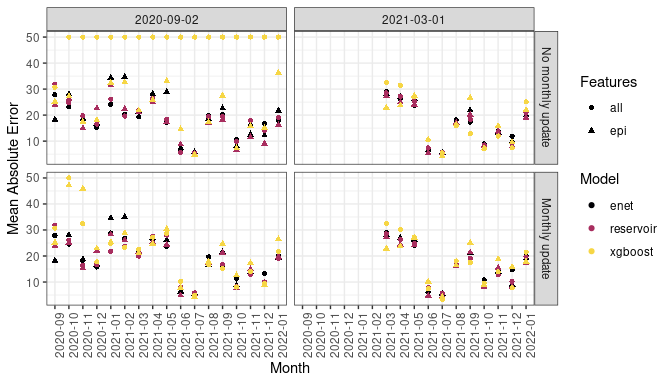
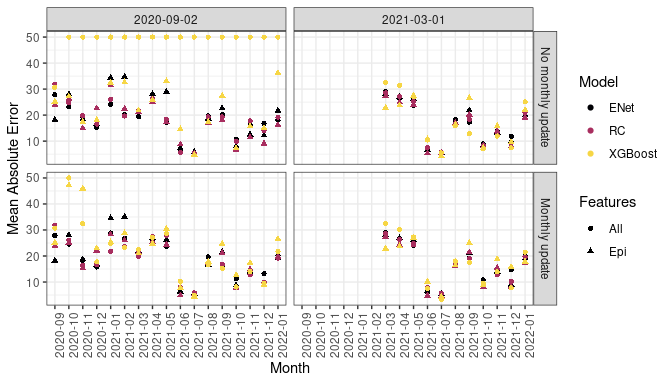
update labels

diff --git a/reporting/experience1.md b/reporting/experience1.md
@@ -552,18 +552,18 @@ Erros greater than 10 are set to 10 for visualisation.
 
 |  |  | starting_date | update | Baseline | MAE (+/- SD) | MRE (+/- SD) | MAEB (+/- SD) | MREB (+/- SD) |
 |----|----|----|----|----|----|----|----|----|
-| enet | all | 2020-09-02 | No monthly update | 21.03(±12.45) | 20.47(±13.86) | 0.2(±0.2) | -0.56(±14.04) | 1.02(±12.93) |
-|  | all | 2020-09-02 | Monthly update | 21.03(±12.45) | 22.12(±15.73) | 0.22(±0.22) | 1.09(±14.23) | 1.09(±6.47) |
-|  | epi | 2020-09-02 | No monthly update | 21.03(±12.45) | 24.36(±20.26) | 0.23(±0.25) | 3.33(±17.76) | 1.04(±10.89) |
-|  | epi | 2020-09-02 | Monthly update | 21.03(±12.45) | 24.65(±20.54) | 0.23(±0.25) | 3.61(±18.33) | 1.08(±11.34) |
-| reservoir | all | 2020-09-02 | No monthly update | 21.03(±12.45) | 21.54(±18.39) | 0.2(±0.28) | 0.51(±19.52) | 0.86(±7.79) |
-|  | all | 2020-09-02 | Monthly update | 21.03(±12.45) | 20.82(±18.42) | 0.2(±0.28) | -0.21(±17.7) | 0.95(±4.49) |
-|  | epi | 2020-09-02 | No monthly update | 21.03(±12.45) | 22.47(±18.41) | 0.21(±0.22) | 1.44(±18.5) | 0.98(±13.12) |
-|  | epi | 2020-09-02 | Monthly update | 21.03(±12.45) | 22.69(±16.69) | 0.24(±0.22) | 1.66(±17) | 1.05(±16.75) |
-| xgboost | all | 2020-09-02 | No monthly update | 21.03(±12.45) | 161.48(±253.34) | 0.88(±3.51) | 140.44(±255.67) | 3.66(±639.63) |
-|  | all | 2020-09-02 | Monthly update | 21.03(±12.45) | 28.72(±24.91) | 0.26(±0.38) | 7.68(±23.19) | 1.3(±18.99) |
-|  | epi | 2020-09-02 | No monthly update | 21.03(±12.45) | 24.95(±19.65) | 0.26(±0.27) | 3.91(±19.25) | 1.2(±21.78) |
-|  | epi | 2020-09-02 | Monthly update | 21.03(±12.45) | 31.43(±37.04) | 0.25(±0.41) | 10.39(±36.03) | 1.29(±8.8) |
+| ENet | All | 2020-09-02 | No monthly update | 21.03(±12.45) | 20.47(±13.86) | 0.2(±0.2) | -0.56(±14.04) | 1.02(±12.93) |
+|  | All | 2020-09-02 | Monthly update | 21.03(±12.45) | 22.12(±15.73) | 0.22(±0.22) | 1.09(±14.23) | 1.09(±6.47) |
+|  | Epi | 2020-09-02 | No monthly update | 21.03(±12.45) | 24.36(±20.26) | 0.23(±0.25) | 3.33(±17.76) | 1.04(±10.89) |
+|  | Epi | 2020-09-02 | Monthly update | 21.03(±12.45) | 24.65(±20.54) | 0.23(±0.25) | 3.61(±18.33) | 1.08(±11.34) |
+| RC | All | 2020-09-02 | No monthly update | 21.03(±12.45) | 21.54(±18.39) | 0.2(±0.28) | 0.51(±19.52) | 0.86(±7.79) |
+|  | All | 2020-09-02 | Monthly update | 21.03(±12.45) | 20.82(±18.42) | 0.2(±0.28) | -0.21(±17.7) | 0.95(±4.49) |
+|  | Epi | 2020-09-02 | No monthly update | 21.03(±12.45) | 22.47(±18.41) | 0.21(±0.22) | 1.44(±18.5) | 0.98(±13.12) |
+|  | Epi | 2020-09-02 | Monthly update | 21.03(±12.45) | 22.69(±16.69) | 0.24(±0.22) | 1.66(±17) | 1.05(±16.75) |
+| XGBoost | All | 2020-09-02 | No monthly update | 21.03(±12.45) | 161.48(±253.34) | 0.88(±3.51) | 140.44(±255.67) | 3.66(±639.63) |
+|  | All | 2020-09-02 | Monthly update | 21.03(±12.45) | 28.72(±24.91) | 0.26(±0.38) | 7.68(±23.19) | 1.3(±18.99) |
+|  | Epi | 2020-09-02 | No monthly update | 21.03(±12.45) | 24.95(±19.65) | 0.26(±0.27) | 3.91(±19.25) | 1.2(±21.78) |
+|  | Epi | 2020-09-02 | Monthly update | 21.03(±12.45) | 31.43(±37.04) | 0.25(±0.41) | 10.39(±36.03) | 1.29(±8.8) |
 
 Performance by algorithm initiated in 2020-09-02 from 2020-09-02 to
 2021-03-15
@@ -968,18 +968,18 @@ Performance by algorithm initiated in 2020-09-02 from 2020-09-02 to
 
 |  |  | starting_date | update | Baseline | MAE | MRE | MAEB | MREB |
 |----|----|----|----|----|----|----|----|----|
-| enet | all | 2021-03-01 | No monthly update | 18.59 (18.59 ; 18.59) | 15.83 (15.82 ; 15.87) | 0.29 (0.28 ; 0.29) | -2.76 (-2.77 ; -2.72) | 0.85 (0.85 ; 0.86) |
-|  | all | 2021-03-01 | Monthly update | 18.59 (18.59 ; 18.59) | 15.98 (15.9 ; 16.29) | 0.28 (0.28 ; 0.3) | -2.6 (-2.68 ; -2.29) | 0.89 (0.88 ; 0.9) |
-|  | epi | 2021-03-01 | No monthly update | 18.59 (18.59 ; 18.59) | 15.96 (15.86 ; 16) | 0.29 (0.29 ; 0.3) | -2.62 (-2.73 ; -2.58) | 0.91 (0.9 ; 0.91) |
-|  | epi | 2021-03-01 | Monthly update | 18.59 (18.59 ; 18.59) | 15.88 (15.81 ; 15.89) | 0.29 (0.28 ; 0.29) | -2.7 (-2.77 ; -2.7) | 0.91 (0.9 ; 0.91) |
-| reservoir | all | 2021-03-01 | No monthly update | 18.59 (18.59 ; 18.59) | 15.4 (15.24 ; 15.6) | 0.27 (0.24 ; 0.28) | -3.19 (-3.35 ; -2.99) | 0.86 (0.85 ; 0.87) |
-|  | all | 2021-03-01 | Monthly update | 18.59 (18.59 ; 18.59) | 15.63 (15.59 ; 15.65) | 0.27 (0.25 ; 0.28) | -2.96 (-3 ; -2.93) | 0.86 (0.85 ; 0.88) |
-|  | epi | 2021-03-01 | No monthly update | 18.59 (18.59 ; 18.59) | 15.16 (15.05 ; 17.45) | 0.25 (0.25 ; 0.32) | -3.43 (-3.53 ; -1.14) | 0.86 (0.83 ; 0.97) |
-|  | epi | 2021-03-01 | Monthly update | 18.59 (18.59 ; 18.59) | 15.1 (14.96 ; 15.46) | 0.25 (0.25 ; 0.28) | -3.48 (-3.62 ; -3.12) | 0.83 (0.8 ; 0.87) |
-| xgboost | all | 2021-03-01 | No monthly update | 18.59 (18.59 ; 18.59) | 16.08 (15.98 ; 19.95) | 0.27 (0.24 ; 0.37) | -2.51 (-2.61 ; 1.36) | 0.88 (0.84 ; 1.12) |
-|  | all | 2021-03-01 | Monthly update | 18.59 (18.59 ; 18.59) | 16.29 (16.26 ; 16.78) | 0.29 (0.27 ; 0.32) | -2.29 (-2.33 ; -1.8) | 0.92 (0.89 ; 0.93) |
-|  | epi | 2021-03-01 | No monthly update | 18.59 (18.59 ; 18.59) | 16.44 (16.42 ; 16.97) | 0.28 (0.28 ; 0.31) | -2.15 (-2.17 ; -1.62) | 0.93 (0.88 ; 0.95) |
-|  | epi | 2021-03-01 | Monthly update | 18.59 (18.59 ; 18.59) | 16.99 (16.61 ; 17.32) | 0.32 (0.31 ; 0.33) | -1.59 (-1.97 ; -1.27) | 0.89 (0.84 ; 0.97) |
+| ENet | All | 2021-03-01 | No monthly update | 18.59 (18.59 ; 18.59) | 15.83 (15.82 ; 15.87) | 0.29 (0.28 ; 0.29) | -2.76 (-2.77 ; -2.72) | 0.85 (0.85 ; 0.86) |
+|  | All | 2021-03-01 | Monthly update | 18.59 (18.59 ; 18.59) | 15.98 (15.9 ; 16.29) | 0.28 (0.28 ; 0.3) | -2.6 (-2.68 ; -2.29) | 0.89 (0.88 ; 0.9) |
+|  | Epi | 2021-03-01 | No monthly update | 18.59 (18.59 ; 18.59) | 15.96 (15.86 ; 16) | 0.29 (0.29 ; 0.3) | -2.62 (-2.73 ; -2.58) | 0.91 (0.9 ; 0.91) |
+|  | Epi | 2021-03-01 | Monthly update | 18.59 (18.59 ; 18.59) | 15.88 (15.81 ; 15.89) | 0.29 (0.28 ; 0.29) | -2.7 (-2.77 ; -2.7) | 0.91 (0.9 ; 0.91) |
+| RC | All | 2021-03-01 | No monthly update | 18.59 (18.59 ; 18.59) | 15.4 (15.24 ; 15.6) | 0.27 (0.24 ; 0.28) | -3.19 (-3.35 ; -2.99) | 0.86 (0.85 ; 0.87) |
+|  | All | 2021-03-01 | Monthly update | 18.59 (18.59 ; 18.59) | 15.63 (15.59 ; 15.65) | 0.27 (0.25 ; 0.28) | -2.96 (-3 ; -2.93) | 0.86 (0.85 ; 0.88) |
+|  | Epi | 2021-03-01 | No monthly update | 18.59 (18.59 ; 18.59) | 15.16 (15.05 ; 17.45) | 0.25 (0.25 ; 0.32) | -3.43 (-3.53 ; -1.14) | 0.86 (0.83 ; 0.97) |
+|  | Epi | 2021-03-01 | Monthly update | 18.59 (18.59 ; 18.59) | 15.1 (14.96 ; 15.46) | 0.25 (0.25 ; 0.28) | -3.48 (-3.62 ; -3.12) | 0.83 (0.8 ; 0.87) |
+| XGBoost | All | 2021-03-01 | No monthly update | 18.59 (18.59 ; 18.59) | 16.08 (15.98 ; 19.95) | 0.27 (0.24 ; 0.37) | -2.51 (-2.61 ; 1.36) | 0.88 (0.84 ; 1.12) |
+|  | All | 2021-03-01 | Monthly update | 18.59 (18.59 ; 18.59) | 16.29 (16.26 ; 16.78) | 0.29 (0.27 ; 0.32) | -2.29 (-2.33 ; -1.8) | 0.92 (0.89 ; 0.93) |
+|  | Epi | 2021-03-01 | No monthly update | 18.59 (18.59 ; 18.59) | 16.44 (16.42 ; 16.97) | 0.28 (0.28 ; 0.31) | -2.15 (-2.17 ; -1.62) | 0.93 (0.88 ; 0.95) |
+|  | Epi | 2021-03-01 | Monthly update | 18.59 (18.59 ; 18.59) | 16.99 (16.61 ; 17.32) | 0.32 (0.31 ; 0.33) | -1.59 (-1.97 ; -1.27) | 0.89 (0.84 ; 0.97) |
 
 Performance by algorithm initiated in 2021-03-01 from 2021-03-15 to
 2022-01-17.
@@ -995,10 +995,10 @@ visualisation.](experience1_files/figure-commonmark/overallPerf-1.png)
 ## Sanity check
 
 ![Numbers of trial per model and date. Sanity
-check.](experience1_files/figure-commonmark/unnamed-chunk-12-1.png)
+check.](experience1_files/figure-commonmark/unnamed-chunk-9-1.png)
 
 ![Q1-Q3 distribution of numeric hyperparameters. Sanity
-check.](experience1_files/figure-commonmark/unnamed-chunk-13-1.png)
+check.](experience1_files/figure-commonmark/unnamed-chunk-10-1.png)
 
 ## Numeric hyperparameters
 
@@ -1018,7 +1018,7 @@ hyperparameter update date.
 
 ![Execution time, energy consumption and carbon footprint by algorithm
 starting at
-2021-03-01..](experience1_files/figure-commonmark/unnamed-chunk-16-1.png)
+2021-03-01..](experience1_files/figure-commonmark/unnamed-chunk-12-1.png)
 
 <div id="fig-emissionvsperformance">
 
